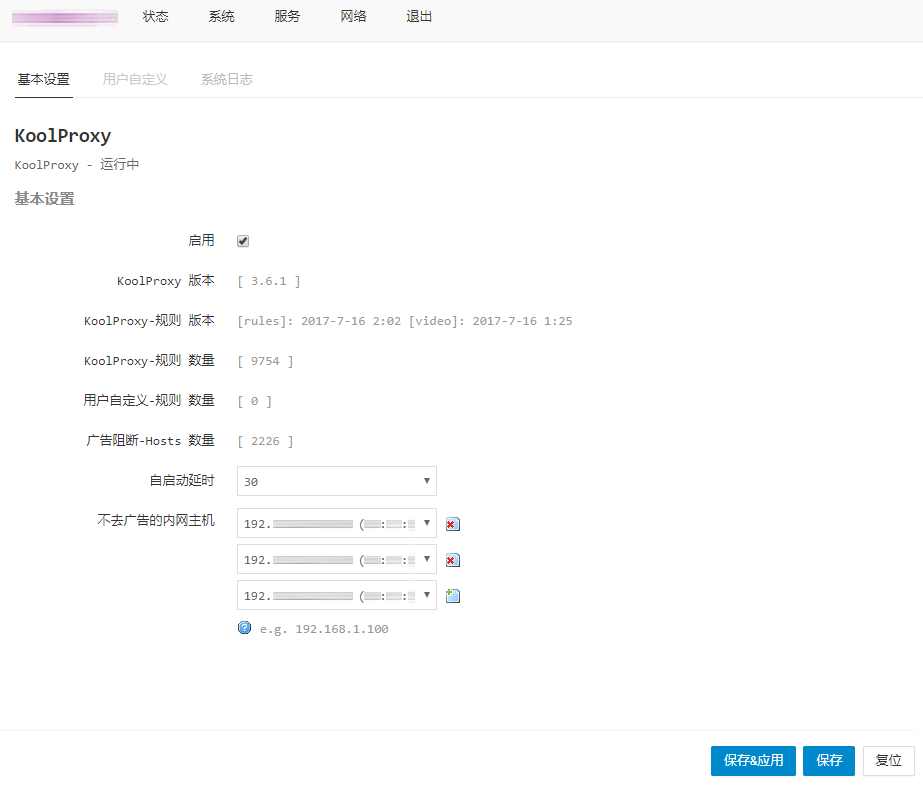
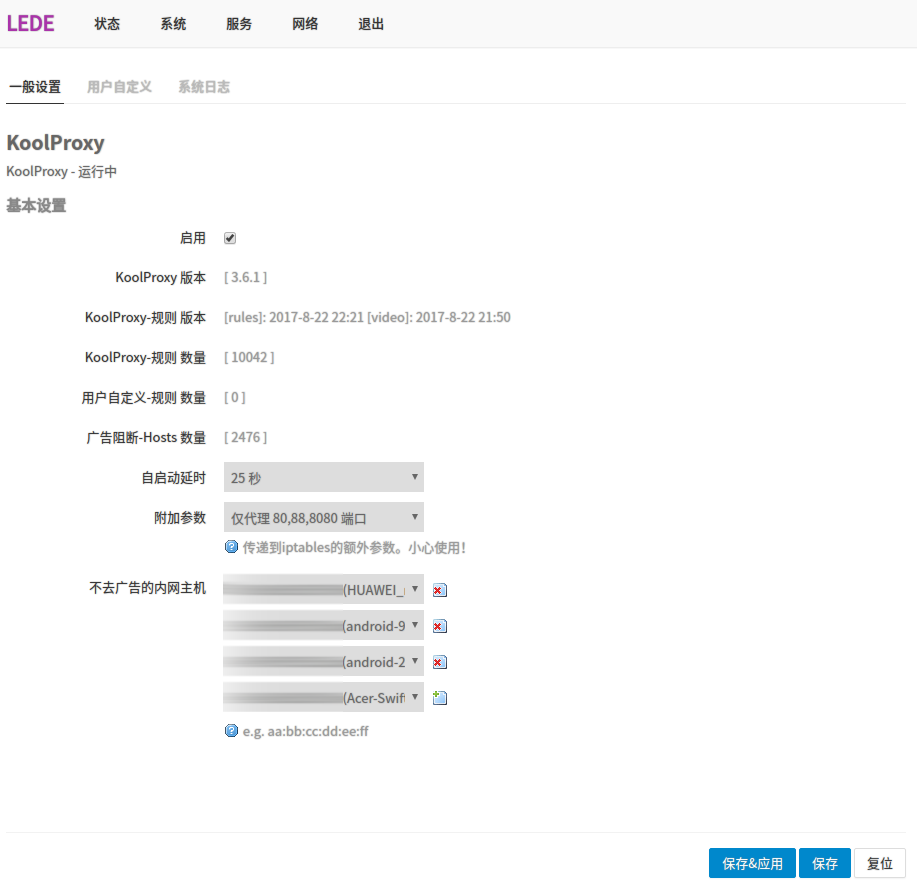
fic LuCI; update preview

diff --git a/files/luci/view/koolproxy/dynamiclist.htm b/files/luci/view/koolproxy/dynamiclist.htm
@@ -1,0 +1,70 @@
+<%#
+Copyright (C) 2017 Jian Chang <aa65535@live.com>
+Licensed to the public under the GNU General Public License v3.
+-%>
+
+<%+cbi/valueheader%>
+
+<%-
+ local values = self:formvalue(section)
+ if not values then
+   values = self:cfgvalue(section) or {self.default}
+ end
+-%>
+
+<div<%=attr("id", cbid .. ".value.field")%>></div>
+<script type="text/javascript">//<![CDATA[
+ (function() {
+   var values = "<%=table.concat(values, ",")%>".split(",");
+   var keylist = "<%=table.concat(self.keylist, ",")%>".split(",");
+   var vallist = "<%=table.concat(self.vallist, ",")%>".split(",");
+   var parent = document.getElementById("<%=cbid%>.value.field");
+
+   var dynamiclist_cbi_init = function() {
+     while (parent.firstChild) {
+       parent.removeChild(parent.firstChild);
+     }
+
+     for (var i = 0; i < values.length; i++) {
+       var sel = document.createElement("select");
+       sel.id = "<%=cbid%>." + (i + 1);
+       sel.name = "<%=cbid%>";
+       sel.index = i;
+       sel.className = "cbi-input-select";
+       sel.onchange = function() {
+         values[this.index] = this.value;
+       };
+       parent.appendChild(sel);
+
+       for (var j = 0; j < keylist.length; j++) {
+         var opt = document.createElement("option");
+         opt.value = keylist[j];
+         if (opt.value == values[i]) {
+           opt.selected = "selected";
+         }
+         opt.appendChild(document.createTextNode(vallist[j]));
+         sel.appendChild(opt);
+       }
+
+       var btn = document.createElement('img');
+       btn.src = "<%=resource%>" + ((i + 1) < values.length ? "/cbi/remove.gif" : "/cbi/add.gif");
+       btn.index = i;
+       btn.className = 'cbi-image-button';
+       btn.onclick = function() {
+         if (this.src.indexOf('remove') > -1) {
+           values.splice(this.index, 1);
+         } else {
+           values.push("<%=self.default%>");
+         }
+         dynamiclist_cbi_init();
+         return false;
+       };
+       parent.appendChild(btn);
+       parent.appendChild(document.createElement('br'));
+     }
+   };
+   dynamiclist_cbi_init();
+ }());
+//]]></script>
+
+<%+cbi/valuefooter%>
